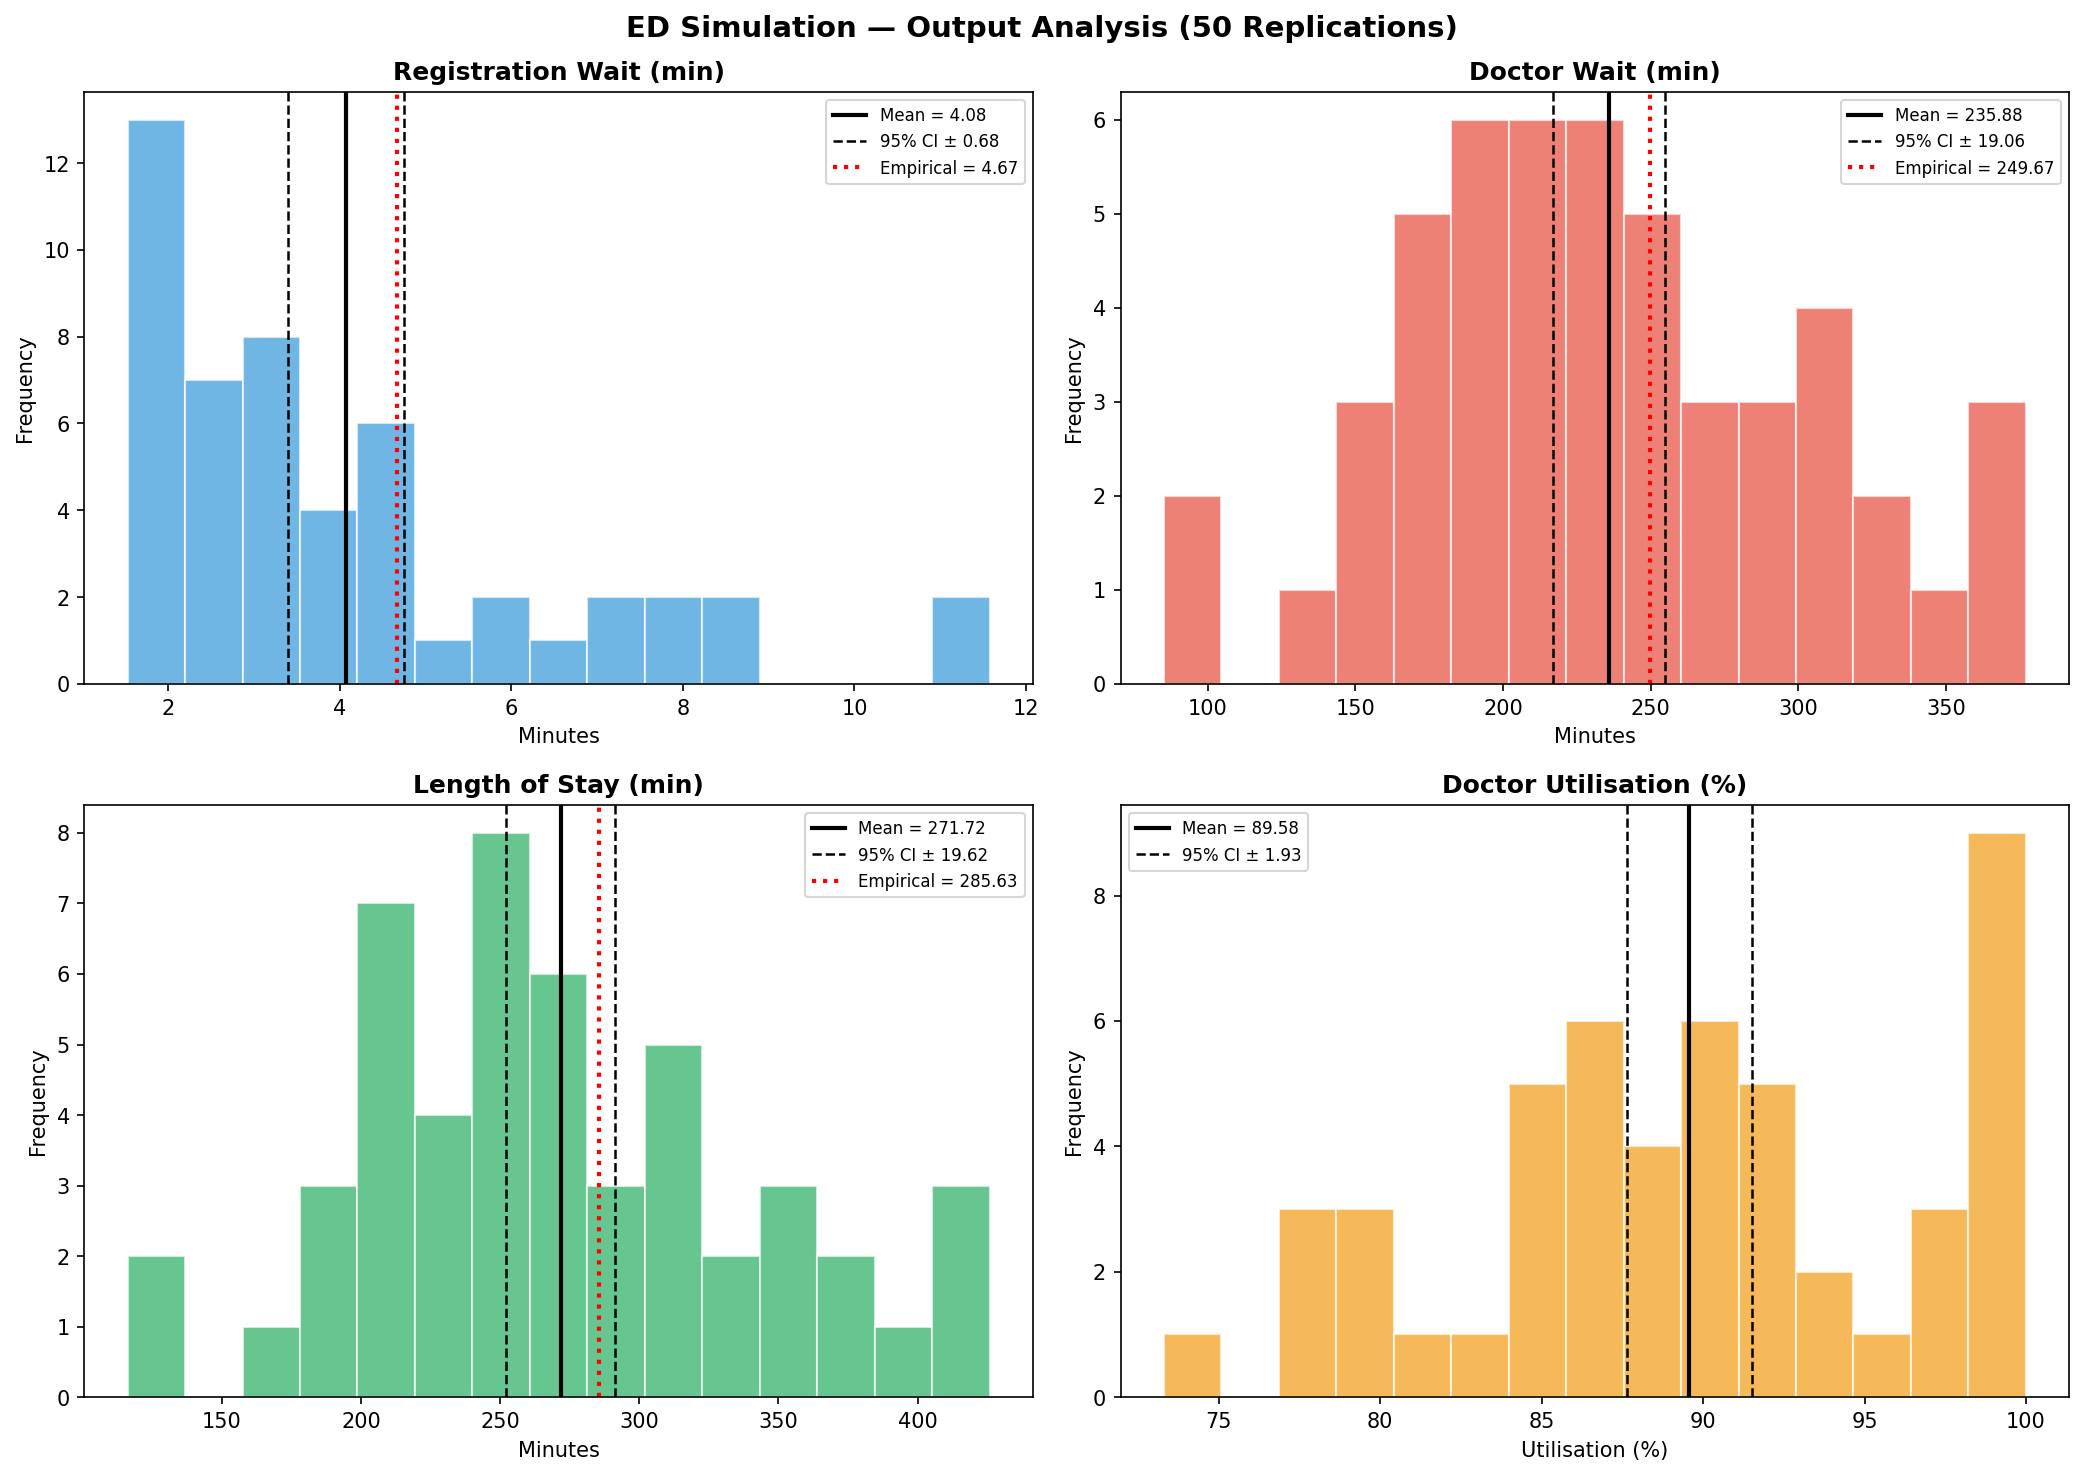
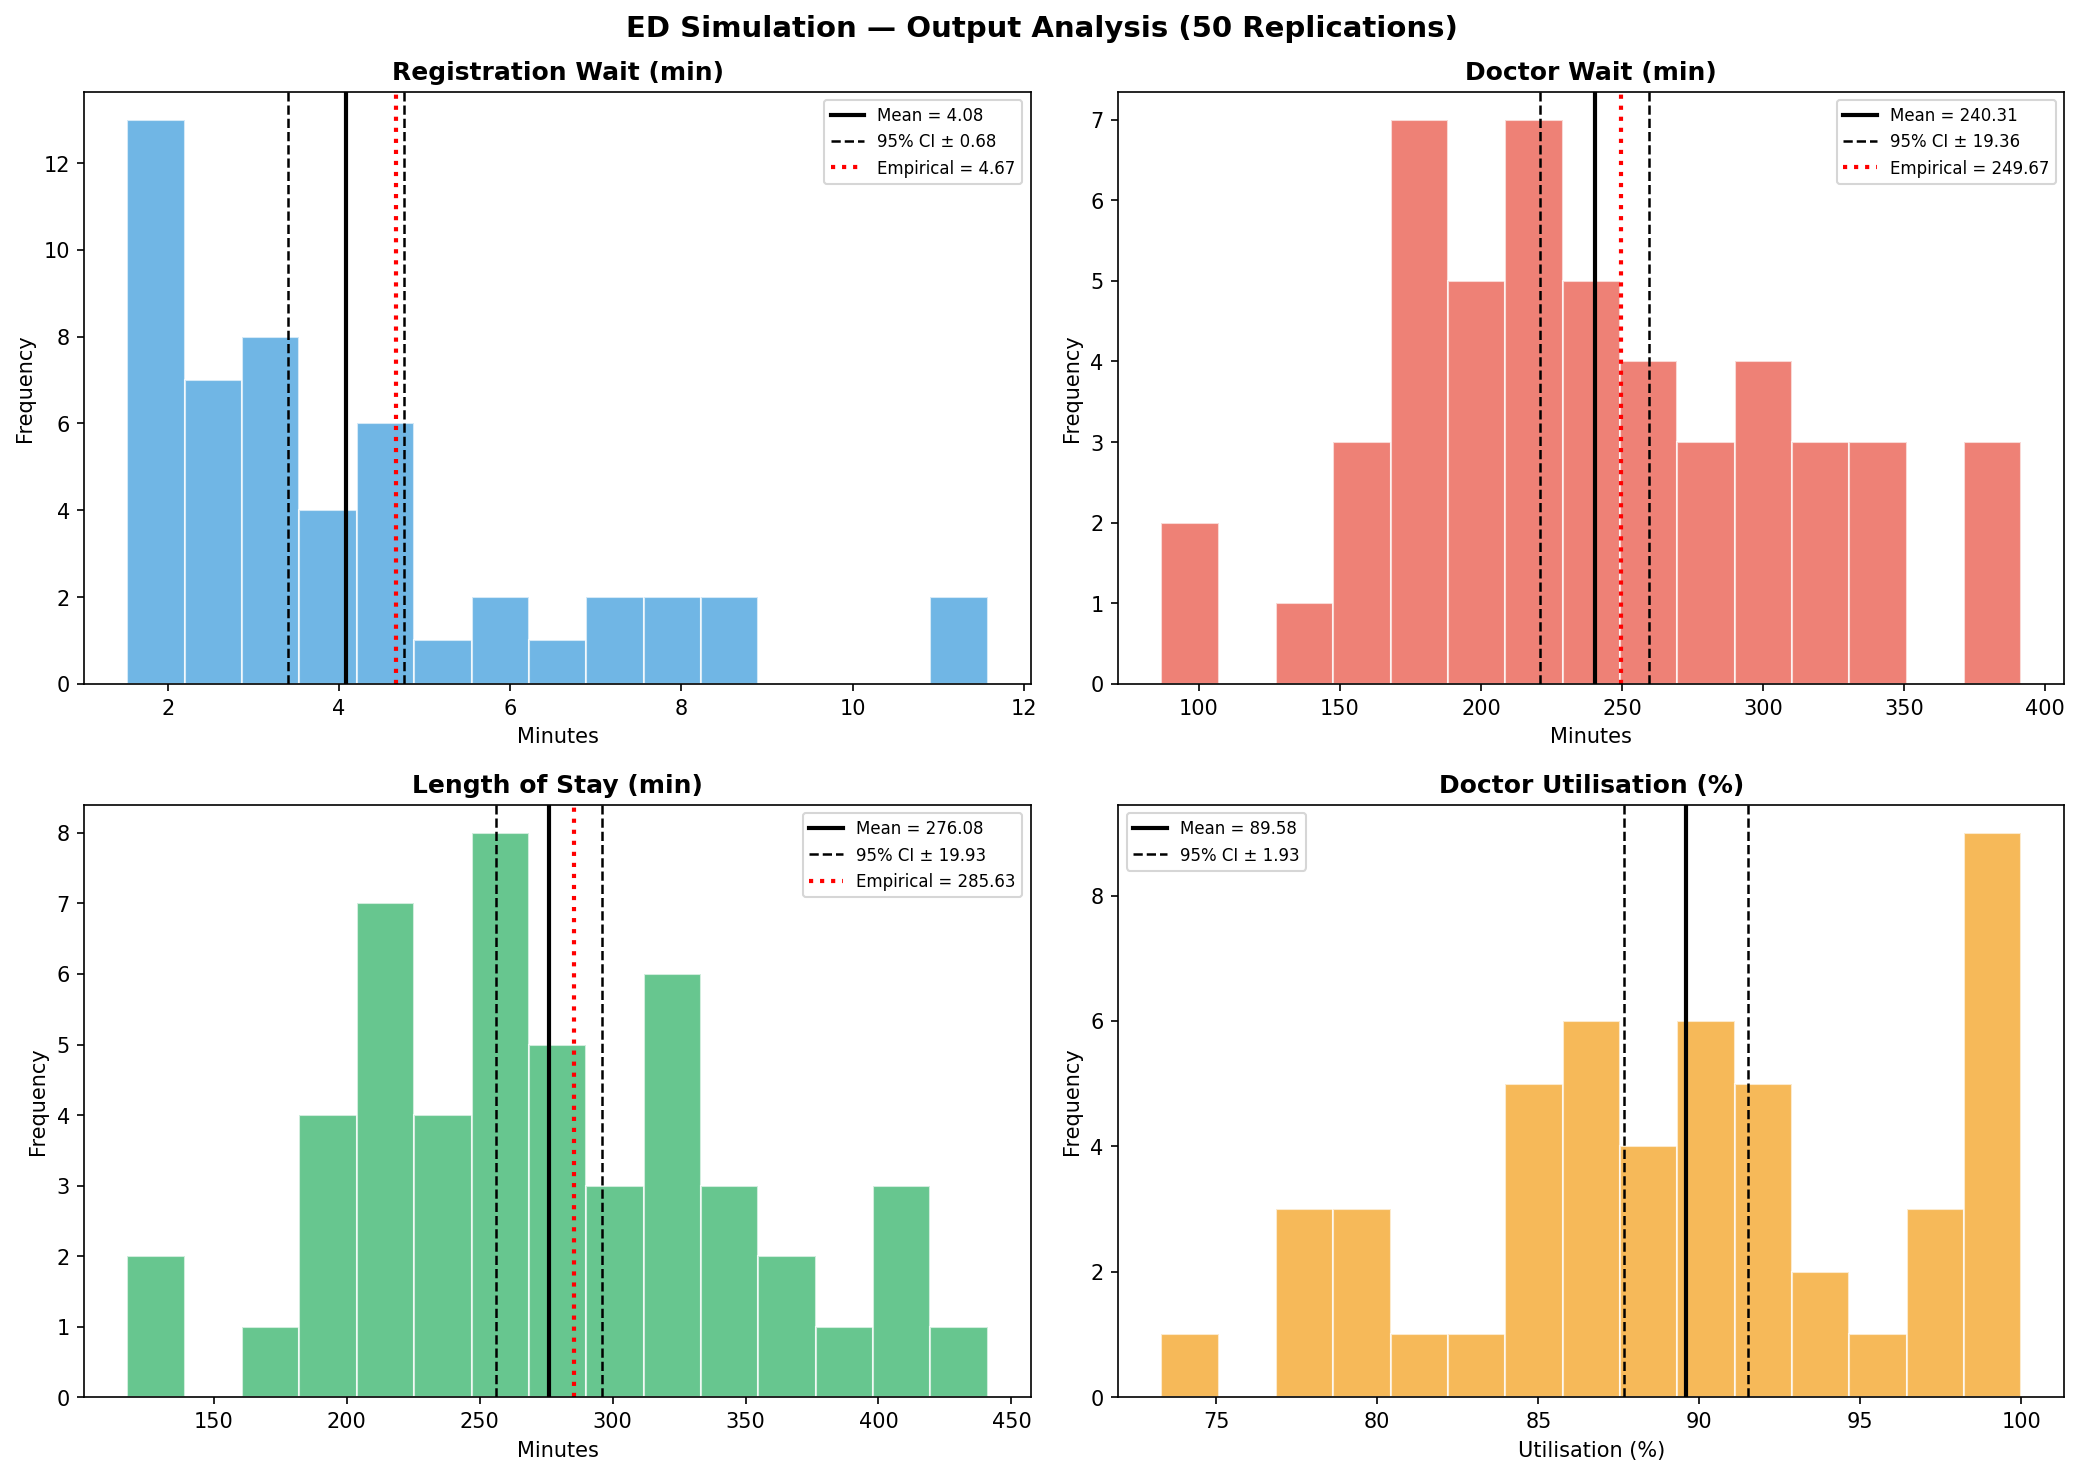
Moved Simulation Classes a python packageyu

diff --git a/ERSimulationModel.py b/ERSimulationModel.py
@@ -1,6 +1,7 @@
 """
 Emergency Department Discrete-Event Simulation
 
+
 System:   1 receptionist, 2 triage nurses, 3 physicians
 Arrivals: Non-Homogeneous Poisson Process (NHPP), hour-by-hour rates
 Service:  Severity-specific distributions from simrng_parameters.csv
@@ -31,10 +32,9 @@ import math
 import numpy as np
 import pandas as pd
 import matplotlib.pyplot as plt
-import SimFunctions
-import SimRNG
-import SimClasses
-
+from sim_engine import SimFunctions
+from sim_engine   import SimRNG
+from sim_engine import SimClasses
 
 # File paths — edit here only if the project structure changes
 BASE_DIR    = os.path.dirname(os.path.abspath(__file__))

diff --git a/sim_engine/SimFunctions.py b/sim_engine/SimFunctions.py
@@ -1,5 +1,5 @@
 
-import SimClasses
+from sim_engine import SimClasses
 
 def SimFunctionsInit(calendar,queues,ctstats,dtstats,resources):
     # Function to initialize SimFunctions.Python
